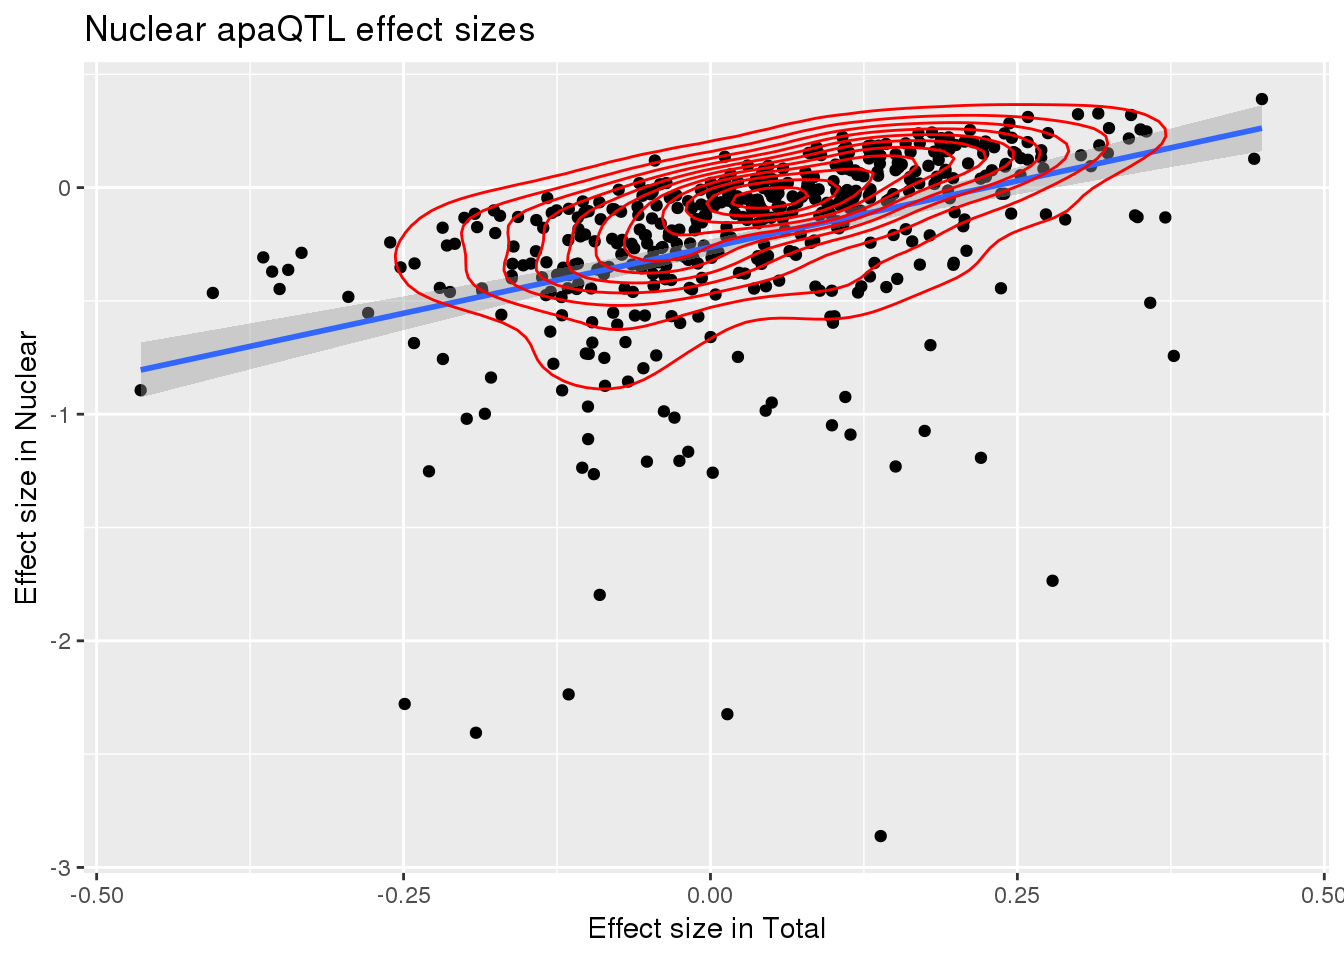
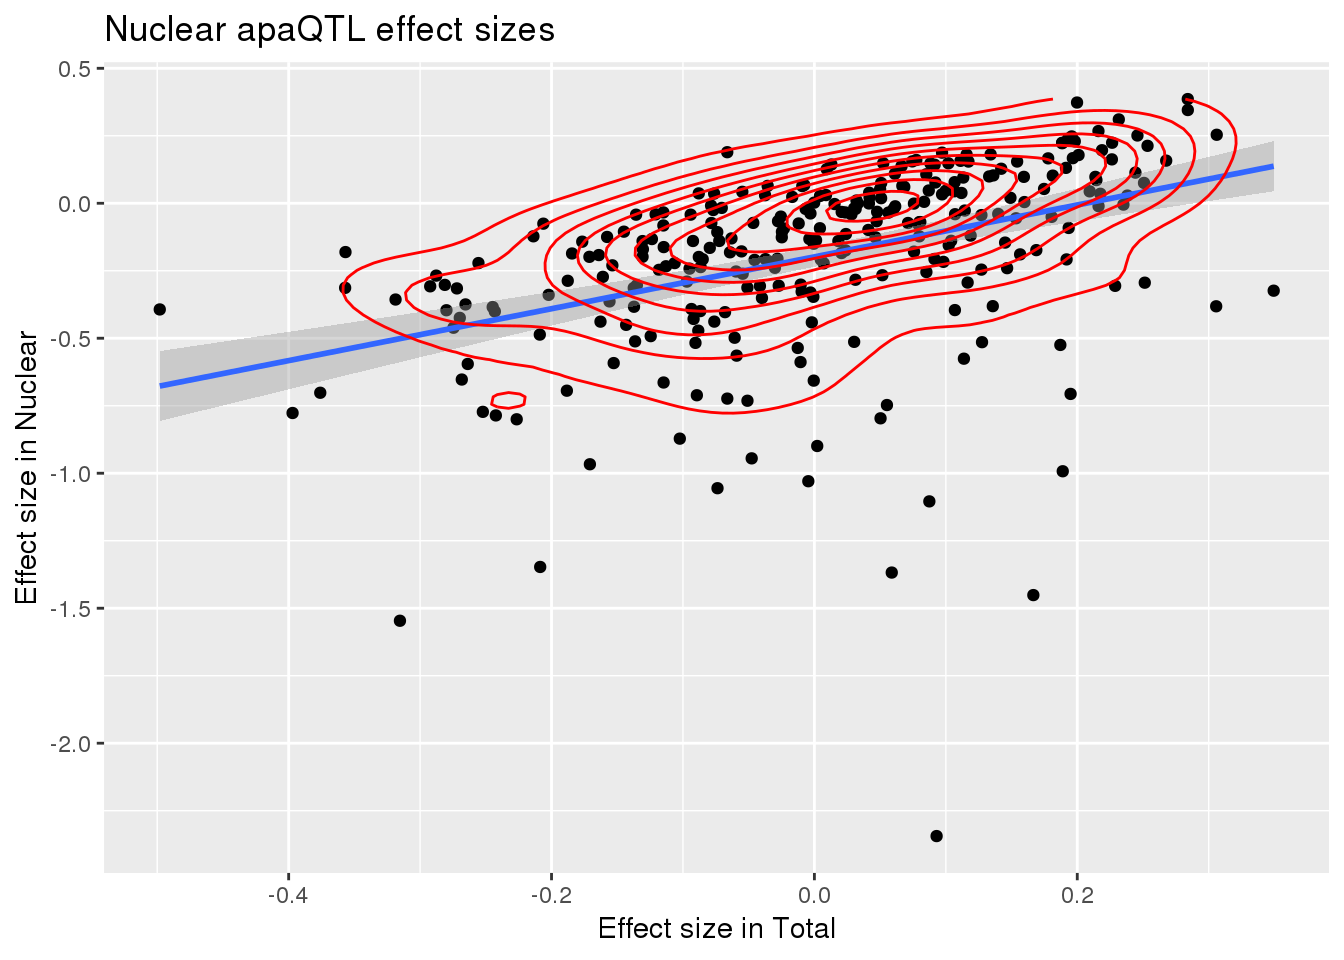
Build site.

diff --git a/docs/apaQTLoverlap.html b/docs/apaQTLoverlap.html
@@ -343,7 +343,7 @@ div.section {
 <div class="tab-content">
 <div id="summary" class="tab-pane fade in active">
 <p>
-<strong>Last updated:</strong> 2019-06-11
+<strong>Last updated:</strong> 2019-06-13
 </p>
 <p>
 <strong>Checks:</strong> <span class="glyphicon glyphicon-ok text-success" aria-hidden="true"></span> 6 <span class="glyphicon glyphicon-exclamation-sign text-danger" aria-hidden="true"></span> 0
@@ -422,10 +422,10 @@ This reproducible <a href="http://rmarkdown.rstudio.com">R Markdown</a> analysis
 <div class="panel panel-default">
 <div class="panel-heading">
 <p class="panel-title">
-<a data-toggle="collapse" data-parent="#workflowr-checks" href="#strongRepositoryversionstrongahrefhttpsgithubcombrimittlemanapaQTLtree1a29304c32c143dc38f78fd98f10c4c3da7aec11targetblank1a29304a"> <span class="glyphicon glyphicon-ok text-success" aria-hidden="true"></span> <strong>Repository version:</strong> <a href="https://github.com/brimittleman/apaQTL/tree/1a29304c32c143dc38f78fd98f10c4c3da7aec11" target="_blank">1a29304</a> </a>
+<a data-toggle="collapse" data-parent="#workflowr-checks" href="#strongRepositoryversionstrongahrefhttpsgithubcombrimittlemanapaQTLtree6dae9b1b089b5b299cd29ad3a5363a20a4cfc226targetblank6dae9b1a"> <span class="glyphicon glyphicon-ok text-success" aria-hidden="true"></span> <strong>Repository version:</strong> <a href="https://github.com/brimittleman/apaQTL/tree/6dae9b1b089b5b299cd29ad3a5363a20a4cfc226" target="_blank">6dae9b1</a> </a>
 </p>
 </div>
[2 lines of base64/hex data omitted]
 <div class="panel-body">
 <p>
 Great! You are using Git for version control. Tracking code development and connecting the code version to the results is critical for reproducibility. The version displayed above was the version of the Git repository at the time these results were generated. <br><br> Note that you need to be careful to ensure that all relevant files for the analysis have been committed to Git prior to generating the results (you can use <code>wflow_publish</code> or <code>wflow_git_commit</code>). workflowr only checks the R Markdown file, but you know if there are other scripts or data files that it depends on. Below is the status of the Git repository when the results were generated:
@@ -435,6 +435,7 @@ Ignored files:
     Ignored:    .DS_Store
     Ignored:    .Rhistory
     Ignored:    .Rproj.user/
+    Ignored:    data/.DS_Store
     Ignored:    output/.DS_Store
 
 Untracked files:
@@ -444,8 +445,10 @@ Untracked files:
     Untracked:  _workflowr.yml
     Untracked:  analysis/._PASdescriptiveplots.Rmd
     Untracked:  analysis/._cuttoffPercUsage.Rmd
+    Untracked:  analysis/QTLexampleplots.Rmd
     Untracked:  analysis/cuttoffPercUsage.Rmd
     Untracked:  analysis/eQTLoverlap.Rmd
+    Untracked:  analysis/oldstuffNotNeeded.Rmd
     Untracked:  apaQTL.Rproj
     Untracked:  code/.NascentRNAdtPlotFirstintronicPAS.sh.swp
     Untracked:  code/._ApaQTL_nominalNonnorm.sh
@@ -465,6 +468,8 @@ Untracked files:
     Untracked:  code/._NascentRNAdtPlotintronicPAS.sh
     Untracked:  code/._NascnetRNAdtPlotPAS.sh
     Untracked:  code/._NetSeq_fourthintronDT.sh
+    Untracked:  code/._QTL2bed.py
+    Untracked:  code/._QTL2bed_withstrand.py
     Untracked:  code/._SnakefilePAS
     Untracked:  code/._SnakefilefiltPAS
     Untracked:  code/._TESplots100bp.sh
@@ -494,12 +499,14 @@ Untracked files:
     Untracked:  code/._config.yaml
     Untracked:  code/._config2.yaml
     Untracked:  code/._configOLD.yaml
+    Untracked:  code/._convertNominal2SNPLOC.py
     Untracked:  code/._convertNumeric.py
     Untracked:  code/._correctNomeqtl.R
     Untracked:  code/._dag.pdf
     Untracked:  code/._eQTLgenestestedapa.py
     Untracked:  code/._encodeRNADTplots.sh
     Untracked:  code/._extractGenotypes.py
+    Untracked:  code/._extractseqfromqtlfastq.py
     Untracked:  code/._fc2leafphen.py
     Untracked:  code/._filter5perc.R
     Untracked:  code/._filter5percPheno.py
@@ -524,6 +531,7 @@ Untracked files:
     Untracked:  code/._getIntronDownstreamPAS.py
     Untracked:  code/._getIntronUpstreamPAS.py
     Untracked:  code/._getQTLalleles.py
+    Untracked:  code/._getQTLfastq.sh
     Untracked:  code/._getUpstreamIntronNuclear.py
     Untracked:  code/._grouptranscripts.py
     Untracked:  code/._keep5perMAF.py
@@ -561,6 +569,8 @@ Untracked files:
     Untracked:  code/._runMakeEmpiricaleQTL_unexp.sh
     Untracked:  code/._runMakeeQTLempirical.sh
     Untracked:  code/._run_getApaPval4eqtl.sh
+    Untracked:  code/._run_getapafromeQTL.py
+    Untracked:  code/._run_getapafromeQTL.sh
     Untracked:  code/._run_getapapval4eqtl_unexp.sh
     Untracked:  code/._run_leafcutterDiffIso.sh
     Untracked:  code/._run_sepUsagephen.sh
@@ -642,6 +652,8 @@ Untracked files:
     Untracked:  code/NascentRNAdtPlotintronicPAS.sh
     Untracked:  code/NascnetRNAdtPlotPAS.sh
     Untracked:  code/NetSeq_fourthintronDT.sh
+    Untracked:  code/QTL2bed.py
+    Untracked:  code/QTL2bed_withstrand.py
     Untracked:  code/README.md
     Untracked:  code/Rplots.pdf
     Untracked:  code/TESplots100bp.err
@@ -660,6 +672,7 @@ Untracked files:
     Untracked:  code/apaQTLCorrectPvalMakeQQ_4pc.R
     Untracked:  code/apaQTL_Nominal_4pc.sh
     Untracked:  code/apaQTL_permuted.4pc.sh
+    Untracked:  code/apafacetboxplots.R
     Untracked:  code/apaqtlfacetboxplots.R
     Untracked:  code/assignNucIntonpeak2intronlocs.sh
     Untracked:  code/assignPeak2Intronicregion.err
@@ -678,6 +691,7 @@ Untracked files:
     Untracked:  code/bothFrac_FC.out
     Untracked:  code/bothFrac_FC.sh
     Untracked:  code/codingdms2bed.py
+    Untracked:  code/convertNominal2SNPLOC.py
     Untracked:  code/correctNomeqtl.R
     Untracked:  code/dag.pdf
     Untracked:  code/dagPAS.pdf
@@ -685,6 +699,7 @@ Untracked files:
     Untracked:  code/eQTLgenestestedapa.py
     Untracked:  code/encodeRNADTplots.sh
     Untracked:  code/extractGenotypes.py
+    Untracked:  code/extractseqfromqtlfastq.py
     Untracked:  code/fc2leafphen.py
     Untracked:  code/finalPASbed2SAF.py
     Untracked:  code/findbuginpeaks.R
@@ -710,6 +725,7 @@ Untracked files:
     Untracked:  code/getIntronDownstreamPAS.py
     Untracked:  code/getIntronUpstreamPAS.py
     Untracked:  code/getQTLalleles.py
+    Untracked:  code/getQTLfastq.sh
     Untracked:  code/getSeq100up.sh
     Untracked:  code/getUpstreamIntronNuclear.py
     Untracked:  code/getseq100up.err
@@ -768,11 +784,14 @@ Untracked files:
     Untracked:  code/run_DistPAS2Sig.err
     Untracked:  code/run_DistPAS2Sig.out
     Untracked:  code/run_distPAS2Sig.sh
+    Untracked:  code/run_getAPAfromanyeQTL.err
+    Untracked:  code/run_getAPAfromanyeQTL.out
     Untracked:  code/run_getApaPval4eQTLs.err
     Untracked:  code/run_getApaPval4eQTLs.out
     Untracked:  code/run_getApaPval4eQTLsunexplained.err
     Untracked:  code/run_getApaPval4eQTLsunexplained.out
     Untracked:  code/run_getApaPval4eqtl.sh
+    Untracked:  code/run_getapafromeQTL.sh
     Untracked:  code/run_getapapval4eqtl_unexp.sh
     Untracked:  code/run_leafcutterDiffIso.sh
     Untracked:  code/run_leafcutter_ds.err
@@ -787,6 +806,8 @@ Untracked files:
     Untracked:  code/selectNominalPvalues.py
     Untracked:  code/sepUsagePhen.py
     Untracked:  code/sepgenobychrom.py
+    Untracked:  code/seqQTLfastq.err
+    Untracked:  code/seqQTLfastq.out
     Untracked:  code/seqQTLregion.err
     Untracked:  code/seqQTLregion.out
     Untracked:  code/snakePASlog.out
@@ -810,6 +831,7 @@ Untracked files:
     Untracked:  code/vcf_keepsnps.out
     Untracked:  code/zipandtabPhen.err
     Untracked:  code/zipandtabPhen.out
+    Untracked:  data/._.DS_Store
     Untracked:  data/ApaByEgene/
     Untracked:  data/CompareOldandNew/
     Untracked:  data/DTmatrix/
@@ -884,13 +906,8 @@ Untracked files:
     Untracked:  output/meanCorrelationPhenotypes.svg
 
 Unstaged changes:
-    Modified:   analysis/DiffIsoAnalysis.Rmd
-    Modified:   analysis/PASusageQC.Rmd
     Modified:   analysis/Readdistagainstfeatures.Rmd
-    Modified:   analysis/choosePCs.Rmd
-    Modified:   analysis/corrbetweenind.Rmd
-    Modified:   analysis/exvunexpeQTL.Rmd
-    Modified:   analysis/mapapaQTL.Rmd
+    Modified:   analysis/index.Rmd
     Modified:   analysis/motifDisruption.Rmd
     Modified:   analysis/nascenttranscription.Rmd
     Modified:   analysis/nucintronicanalysis.Rmd
@@ -900,12 +917,16 @@ Unstaged changes:
     Modified:   code/Snakefile
     Deleted:    code/Upstream10Bases_general.py
     Modified:   code/apaQTLCorrectPvalMakeQQ.R
+    Modified:   code/apaQTL_Nominal.sh
     Modified:   code/apaQTL_permuted.sh
     Modified:   code/apaQTLsnake.err
     Modified:   code/bam2bw.sh
     Modified:   code/bed2saf.py
     Modified:   code/cluster.json
+    Modified:   code/clusterfiltPAS.json
     Modified:   code/config.yaml
+    Modified:   code/environment.yaml
+    Modified:   code/makePheno.py
     Deleted:    code/test.txt
 
 </code></pre>
@@ -945,6 +966,23 @@ Message
 </tr>
 </thead>
 <tbody>
+<tr>
+<td>
+html
+</td>
+<td>
+<a href="https://rawcdn.githack.com/brimittleman/apaQTL/c4358f68fef41aff5dff4a1f2128c719aaad5d6c/docs/apaQTLoverlap.html" target="_blank">c4358f6</a>
+</td>
+<td>
+brimittleman
+</td>
+<td>
+2019-06-11
+</td>
+<td>
+Build site.
+</td>
+</tr>
 <tr>
 <td>
 html
@@ -1022,12 +1060,12 @@ add overlap analysis
 </div>
 <p>This analysis will investigate the sharing between total and nuclear apaQTls first by calculating the pi1 statistic and second by looking at the correlation of effect sizes.</p>
 <pre class="r"><code>library(tidyverse)</code></pre>
-<pre><code>── Attaching packages ───────────────────────────────────────────────────────────── tidyverse 1.2.1 ──</code></pre>
+<pre><code>── Attaching packages ─────────────────────────────────────────────────────────────── tidyverse 1.2.1 ──</code></pre>
 <pre><code>✔ ggplot2 3.1.1       ✔ purrr   0.3.2  
 ✔ tibble  2.1.1       ✔ dplyr   0.8.0.1
 ✔ tidyr   0.8.3       ✔ stringr 1.3.1  
 ✔ readr   1.3.1       ✔ forcats 0.3.0  </code></pre>
-<pre><code>── Conflicts ──────────────────────────────────────────────────────────────── tidyverse_conflicts() ──
+<pre><code>── Conflicts ────────────────────────────────────────────────────────────────── tidyverse_conflicts() ──
 ✖ dplyr::filter() masks stats::filter()
 ✖ dplyr::lag()    masks stats::lag()</code></pre>
 <pre class="r"><code>library(reshape2)</code></pre>
@@ -1084,6 +1122,17 @@ Date
 <tbody>
 <tr>
 <td>
+<a href="https://github.com/brimittleman/apaQTL/blob/c4358f68fef41aff5dff4a1f2128c719aaad5d6c/docs/figure/apaQTLoverlap.Rmd/unnamed-chunk-4-1.png" target="_blank">c4358f6</a>
+</td>
+<td>
+brimittleman
+</td>
+<td>
+2019-06-11
+</td>
+</tr>
+<tr>
+<td>
 <a href="https://github.com/brimittleman/apaQTL/blob/a88eedf9feeaeba2af44f429f931361c419ff930/docs/figure/apaQTLoverlap.Rmd/unnamed-chunk-4-1.png" target="_blank">a88eedf</a>
 </td>
 <td>
@@ -1123,19 +1172,19 @@ lm(formula = log10(TotBoth$slope) ~ log10(TotBoth$Originalslope))
 
 Residuals:
      Min       1Q   Median       3Q      Max 
--2.53182 -0.05434  0.09995  0.17233  0.33003 
+-2.24040 -0.08718  0.08008  0.15420  0.33426 
 
 Coefficients:
                              Estimate Std. Error t value Pr(&gt;|t|)    
-(Intercept)                  -0.14280    0.02246  -6.357 1.04e-09 ***
-log10(TotBoth$Originalslope)  0.93453    0.14751   6.336 1.17e-09 ***
+(Intercept)                  -0.14383    0.01953  -7.363 4.06e-12 ***
+log10(TotBoth$Originalslope)  0.81265    0.11379   7.142 1.50e-11 ***
 ---
 Signif. codes:  0 &#39;***&#39; 0.001 &#39;**&#39; 0.01 &#39;*&#39; 0.05 &#39;.&#39; 0.1 &#39; &#39; 1
 
-Residual standard error: 0.3288 on 238 degrees of freedom
-  (230 observations deleted due to missingness)
-Multiple R-squared:  0.1443,    Adjusted R-squared:  0.1407 
-F-statistic: 40.14 on 1 and 238 DF,  p-value: 1.172e-09</code></pre>
+Residual standard error: 0.2836 on 209 degrees of freedom
+  (195 observations deleted due to missingness)
+Multiple R-squared:  0.1962,    Adjusted R-squared:  0.1923 
+F-statistic: 51.01 on 1 and 209 DF,  p-value: 1.501e-11</code></pre>
 <pre class="r"><code>ggplot(TotBoth, aes(x=log10(Originalslope), y=log10(slope)))+geom_point() + geom_smooth(method=&quot;lm&quot;) + labs(title=&quot;Total apaQTL effect sizes&quot;, x=&quot;Effect size in Nuclear&quot;,y=&quot;Effect size in Total&quot;) + geom_density_2d(col=&quot;red&quot;)</code></pre>
 <pre><code>Warning in FUN(X[[i]], ...): NaNs produced
 
@@ -1152,9 +1201,9 @@ Warning in FUN(X[[i]], ...): NaNs produced
 Warning in FUN(X[[i]], ...): NaNs produced
 
 Warning in FUN(X[[i]], ...): NaNs produced</code></pre>
-<pre><code>Warning: Removed 230 rows containing non-finite values (stat_smooth).</code></pre>
-<pre><code>Warning: Removed 230 rows containing non-finite values (stat_density2d).</code></pre>
-<pre><code>Warning: Removed 230 rows containing missing values (geom_point).</code></pre>
+<pre><code>Warning: Removed 195 rows containing non-finite values (stat_smooth).</code></pre>
+<pre><code>Warning: Removed 195 rows containing non-finite values (stat_density2d).</code></pre>
+<pre><code>Warning: Removed 195 rows containing missing values (geom_point).</code></pre>
 <p><img src="figure/apaQTLoverlap.Rmd/unnamed-chunk-8-1.png" width="672" style="display: block; margin: auto;" /></p>
 <p>
 <button type="button" class="btn btn-default btn-xs btn-workflowr btn-workflowr-fig" data-toggle="collapse" data-target="#fig-unnamed-chunk-8-1">
@@ -1178,6 +1227,17 @@ Date
 </tr>
 </thead>
 <tbody>
+<tr>
+<td>
+<a href="https://github.com/brimittleman/apaQTL/blob/c4358f68fef41aff5dff4a1f2128c719aaad5d6c/docs/figure/apaQTLoverlap.Rmd/unnamed-chunk-8-1.png" target="_blank">c4358f6</a>
+</td>
+<td>
+brimittleman
+</td>
+<td>
+2019-06-11
+</td>
+</tr>
 <tr>
 <td>
 <a href="https://github.com/brimittleman/apaQTL/blob/d1173386d4863d139e25bdffbb8d6f7bf4819b4f/docs/figure/apaQTLoverlap.Rmd/unnamed-chunk-8-1.png" target="_blank">d117338</a>
@@ -1215,19 +1275,19 @@ lm(formula = log10(NucBoth$slope) ~ log10(NucBoth$Originalslope))
 
 Residuals:
      Min       1Q   Median       3Q      Max 
--2.76127 -0.07345  0.09761  0.20925  0.43489 
+-2.23491 -0.09433  0.07872  0.18474  0.45126 
 
 Coefficients:
                              Estimate Std. Error t value Pr(&gt;|t|)    
-(Intercept)                  -0.26243    0.01766 -14.861   &lt;2e-16 ***
-log10(NucBoth$Originalslope)  1.16826    0.11813   9.889   &lt;2e-16 ***
+(Intercept)                  -0.19842    0.01881 -10.546  &lt; 2e-16 ***
+log10(NucBoth$Originalslope)  0.96077    0.12546   7.658 3.17e-13 ***
 ---
 Signif. codes:  0 &#39;***&#39; 0.001 &#39;**&#39; 0.01 &#39;*&#39; 0.05 &#39;.&#39; 0.1 &#39; &#39; 1
 
-Residual standard error: 0.3681 on 461 degrees of freedom
-  (396 observations deleted due to missingness)
-Multiple R-squared:  0.175, Adjusted R-squared:  0.1732 
-F-statistic:  97.8 on 1 and 461 DF,  p-value: &lt; 2.2e-16</code></pre>
+Residual standard error: 0.3141 on 277 degrees of freedom
+  (310 observations deleted due to missingness)
+Multiple R-squared:  0.1747,    Adjusted R-squared:  0.1717 
+F-statistic: 58.64 on 1 and 277 DF,  p-value: 3.173e-13</code></pre>
 <pre class="r"><code>ggplot(NucBoth, aes(x=log10(Originalslope), y=log10(slope)))+geom_point() + geom_smooth(method=&quot;lm&quot;) + labs(title=&quot;Nuclear apaQTL effect sizes&quot;, x=&quot;Effect size in Total&quot;,y=&quot;Effect size in Nuclear&quot;) + geom_density_2d(col=&quot;red&quot;)</code></pre>
 <pre><code>Warning in FUN(X[[i]], ...): NaNs produced
 
@@ -1244,9 +1304,9 @@ Warning in FUN(X[[i]], ...): NaNs produced
 Warning in FUN(X[[i]], ...): NaNs produced
 
 Warning in FUN(X[[i]], ...): NaNs produced</code></pre>
-<pre><code>Warning: Removed 396 rows containing non-finite values (stat_smooth).</code></pre>
-<pre><code>Warning: Removed 396 rows containing non-finite values (stat_density2d).</code></pre>
-<pre><code>Warning: Removed 396 rows containing missing values (geom_point).</code></pre>
+<pre><code>Warning: Removed 310 rows containing non-finite values (stat_smooth).</code></pre>
+<pre><code>Warning: Removed 310 rows containing non-finite values (stat_density2d).</code></pre>
+<pre><code>Warning: Removed 310 rows containing missing values (geom_point).</code></pre>
 <p><img src="figure/apaQTLoverlap.Rmd/unnamed-chunk-10-1.png" width="672" style="display: block; margin: auto;" /></p>
 <p>
 <button type="button" class="btn btn-default btn-xs btn-workflowr btn-workflowr-fig" data-toggle="collapse" data-target="#fig-unnamed-chunk-10-1">
@@ -1270,6 +1330,17 @@ Date
 </tr>
 </thead>
 <tbody>
+<tr>
+<td>
+<a href="https://github.com/brimittleman/apaQTL/blob/c4358f68fef41aff5dff4a1f2128c719aaad5d6c/docs/figure/apaQTLoverlap.Rmd/unnamed-chunk-10-1.png" target="_blank">c4358f6</a>
+</td>
+<td>
+brimittleman
+</td>
+<td>
+2019-06-11
+</td>
+</tr>
 <tr>
 <td>
 <a href="https://github.com/brimittleman/apaQTL/blob/d1173386d4863d139e25bdffbb8d6f7bf4819b4f/docs/figure/apaQTLoverlap.Rmd/unnamed-chunk-10-1.png" target="_blank">d117338</a>
